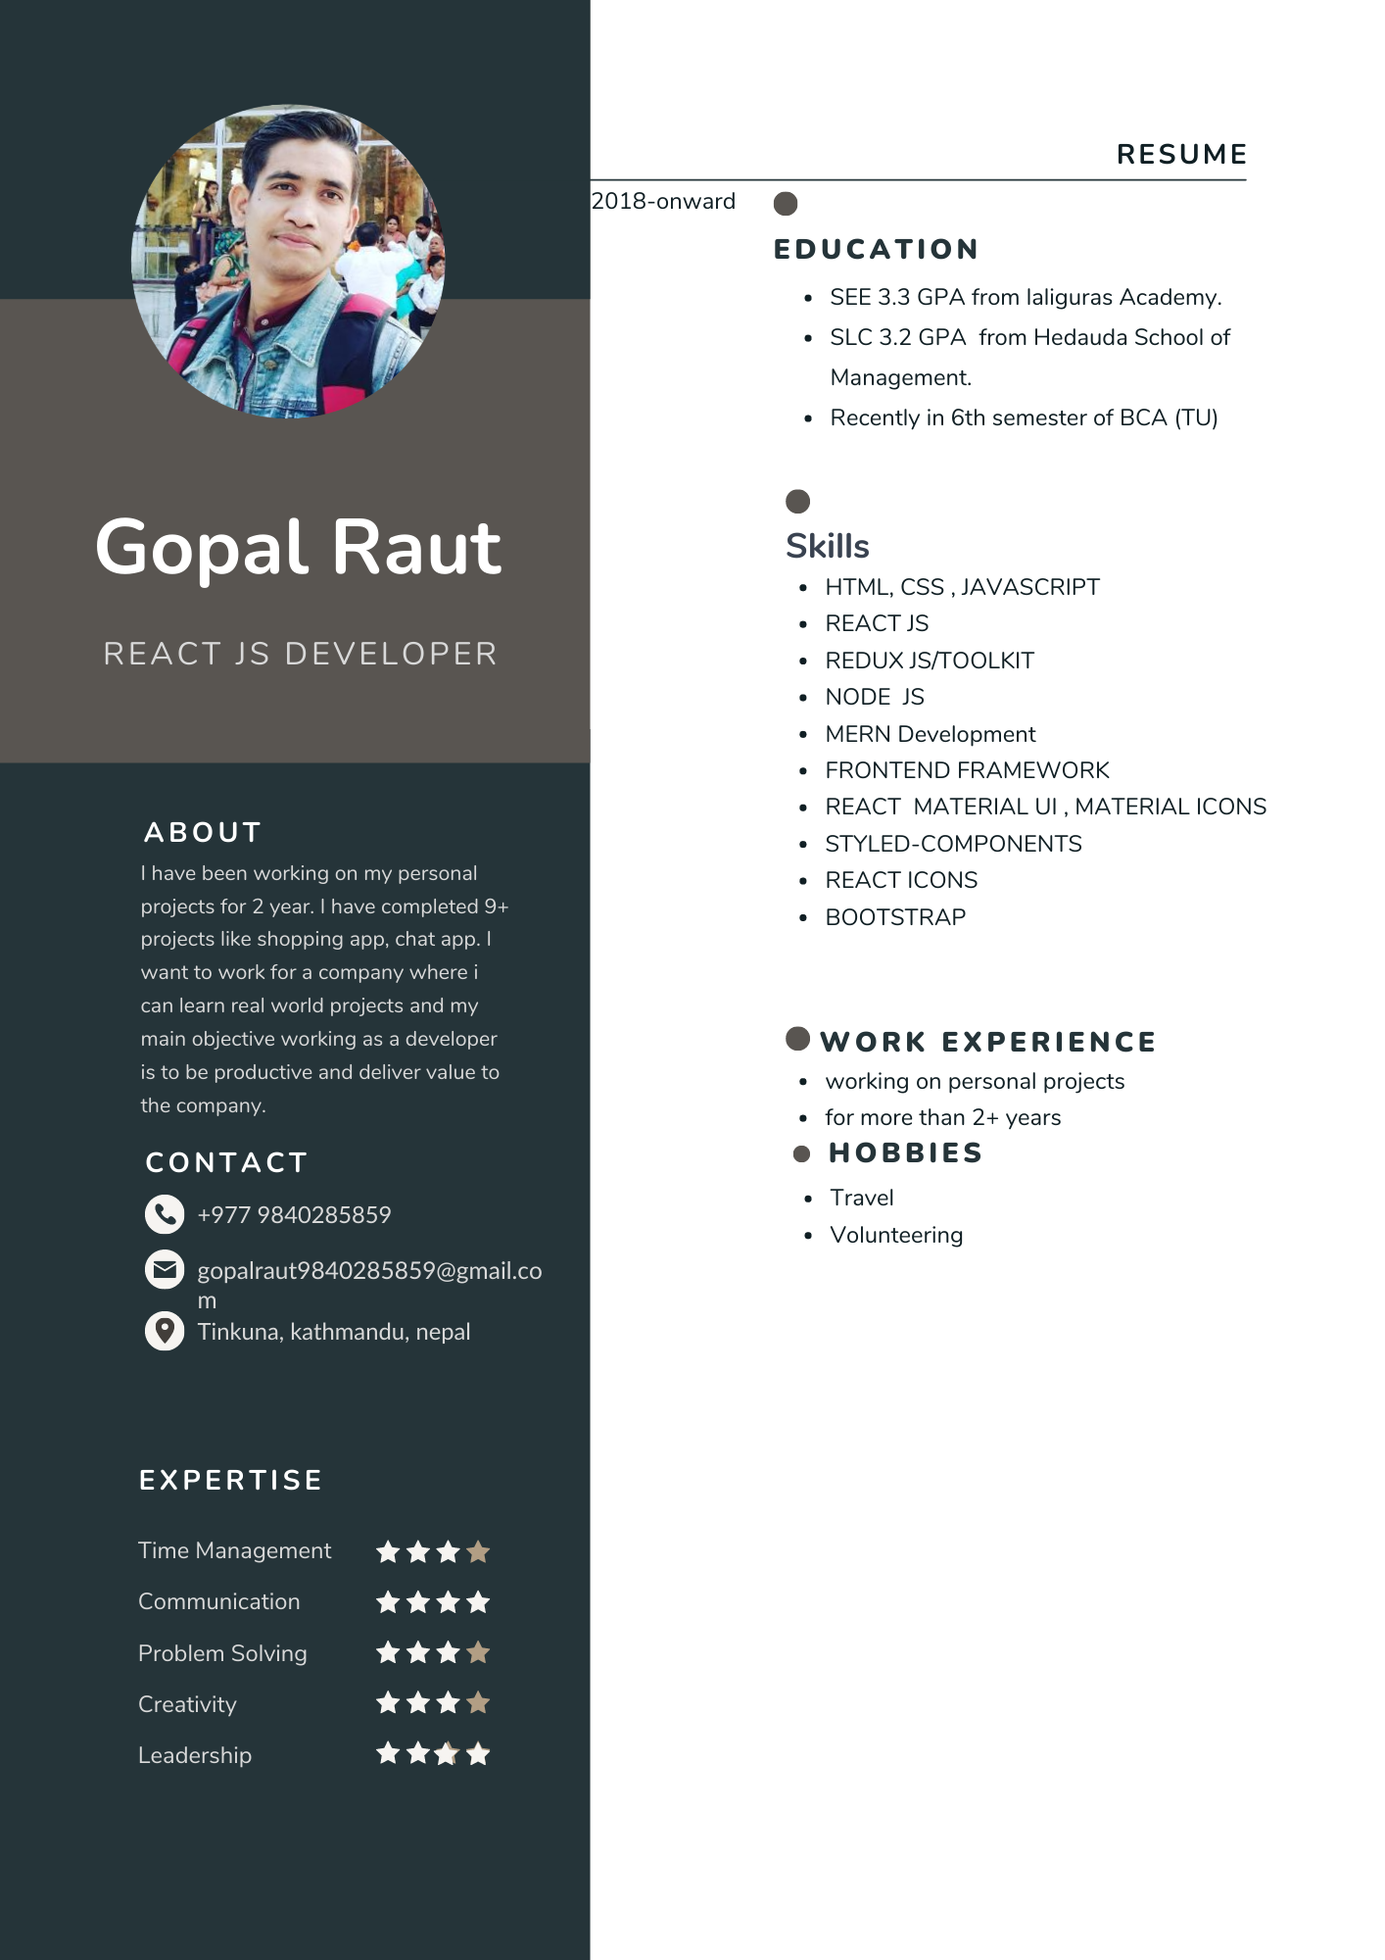
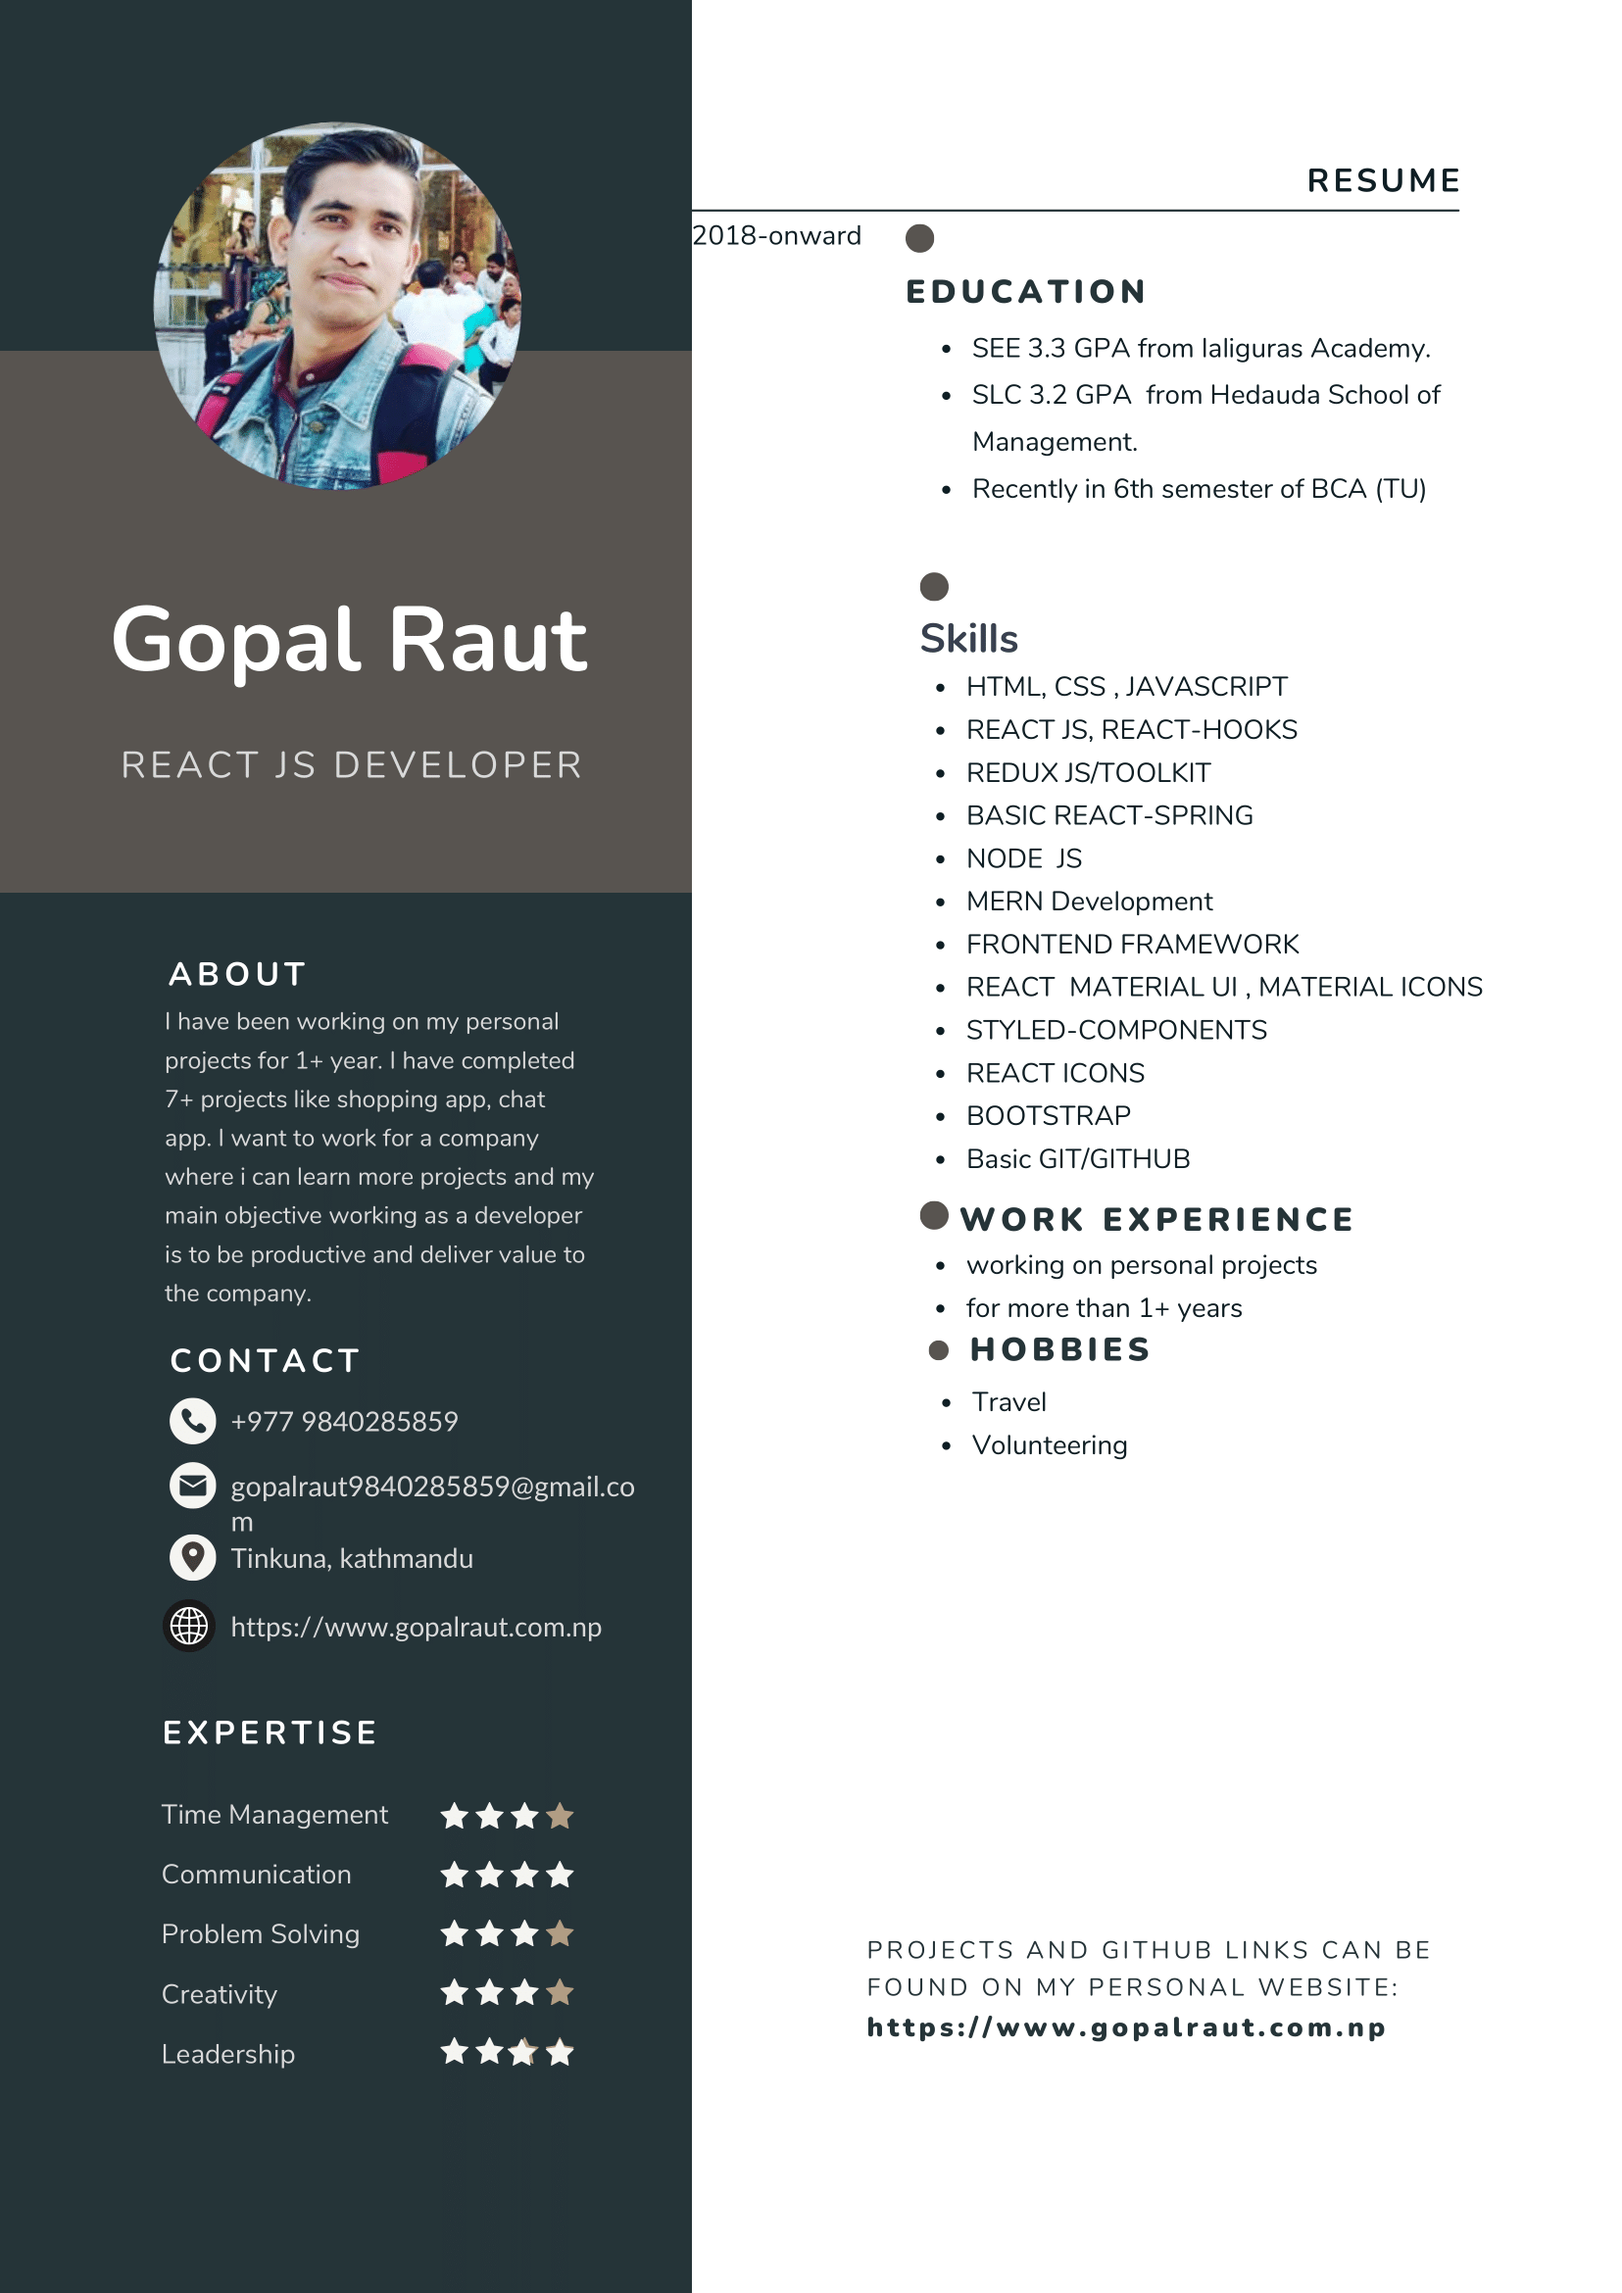
animation update

diff --git a/src/components/components.style/ReactSpring.js b/src/components/components.style/ReactSpring.js
@@ -14,22 +14,24 @@ return({
     config:{duration:1700}
 })}
 
-export const rightAnimateObject =(inView,compo)=>{
+export const rightAnimateObject =(inView)=>{
     const isMobile = window.matchMedia("(max-width: 767px)").matches;
 
     return({
         from:{
             position:"relative",
+            opacity:inView && "0",
             right:inView && !isMobile && "-300px",
-            transform:inView && (!isMobile?compo?"rotate(120deg)" :"scale(1.15) rotate(30deg)": "scale(1.15)") , 
+            transform:inView && (!isMobile?"scale(1.15) rotate(90deg)" : "scale(1.1)") , 
         },
         to:{
+            opacity:"1",
             right:"0",
-            transform: !isMobile? "scale(1) rotate(0deg)": "scale(1)",
+            transform: !isMobile?"scale(1) rotate(0deg)" : "scale(1)",
         },
-        config:{duration:1800,
-            friction: 120,
-            tension: 120,}
+        config:{duration:1800,}
     })}
+
+
 
    

diff --git a/src/components/Experience/Experience.js b/src/components/Experience/Experience.js
@@ -13,14 +13,14 @@ const Experience = () => {
     <ExperienceWrapper>
       <Flexrow>
         <IconCircle>
-          <IconText >2+</IconText>
+          <IconText >1+</IconText>
           <Experiencecolumn >
             <SecondText >years</SecondText>
             <SecondText>Experience</SecondText>
           </Experiencecolumn>
         </IconCircle>
         <IconCircle>
-          <IconText>9+</IconText>
+          <IconText>7+</IconText>
           <Experiencecolumn>
             <SecondText>completed</SecondText>
             <SecondText>Projects</SecondText>

diff --git a/src/components/BrandAndCompany/BrandAndCompany.js b/src/components/BrandAndCompany/BrandAndCompany.js
@@ -14,7 +14,7 @@ const BrandAndCompany = () => {
   const [ref, inView] = useInView({ threshold: 0.01 });
   // here threshold define part of screen component has occupied
   const animateLeft= useSpring(leftAnimateObject(inView))
-  const animateRight = useSpring(rightAnimateObject(inView,"brand"))
+  const animateRight = useSpring(rightAnimateObject(inView))
 
   return (
     <BrandWrapper ref={ref} id="Client">
